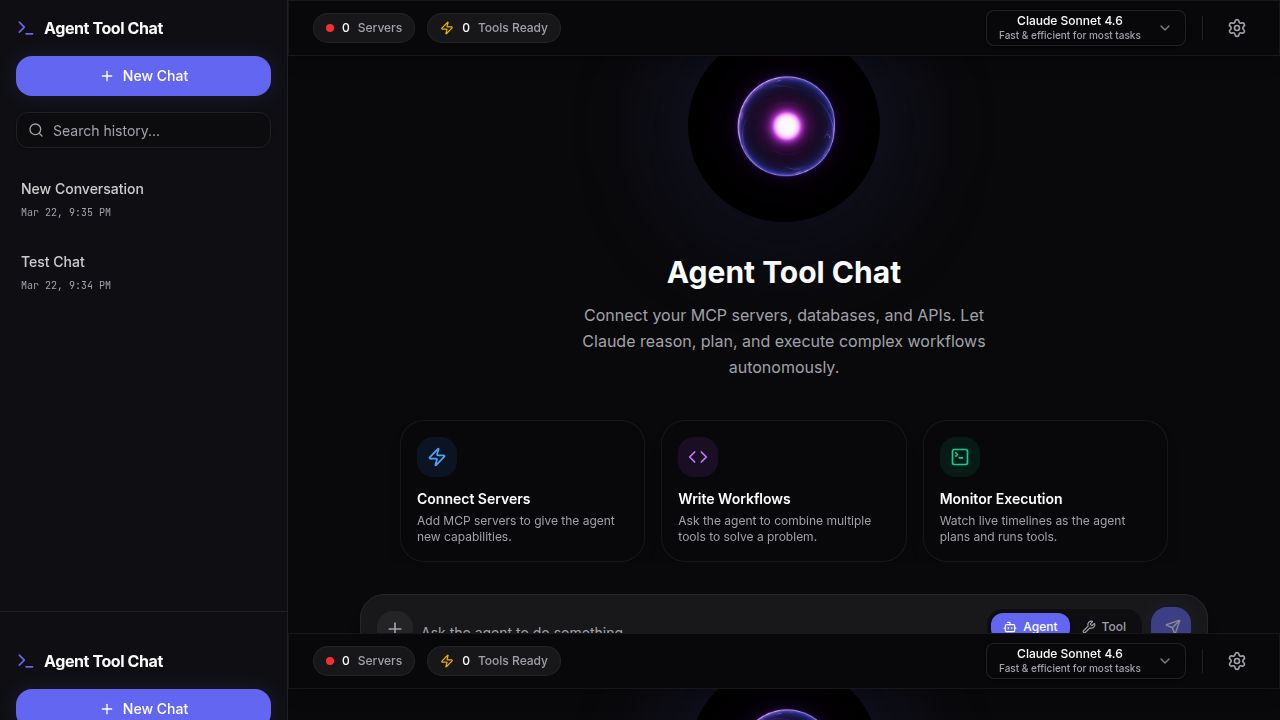
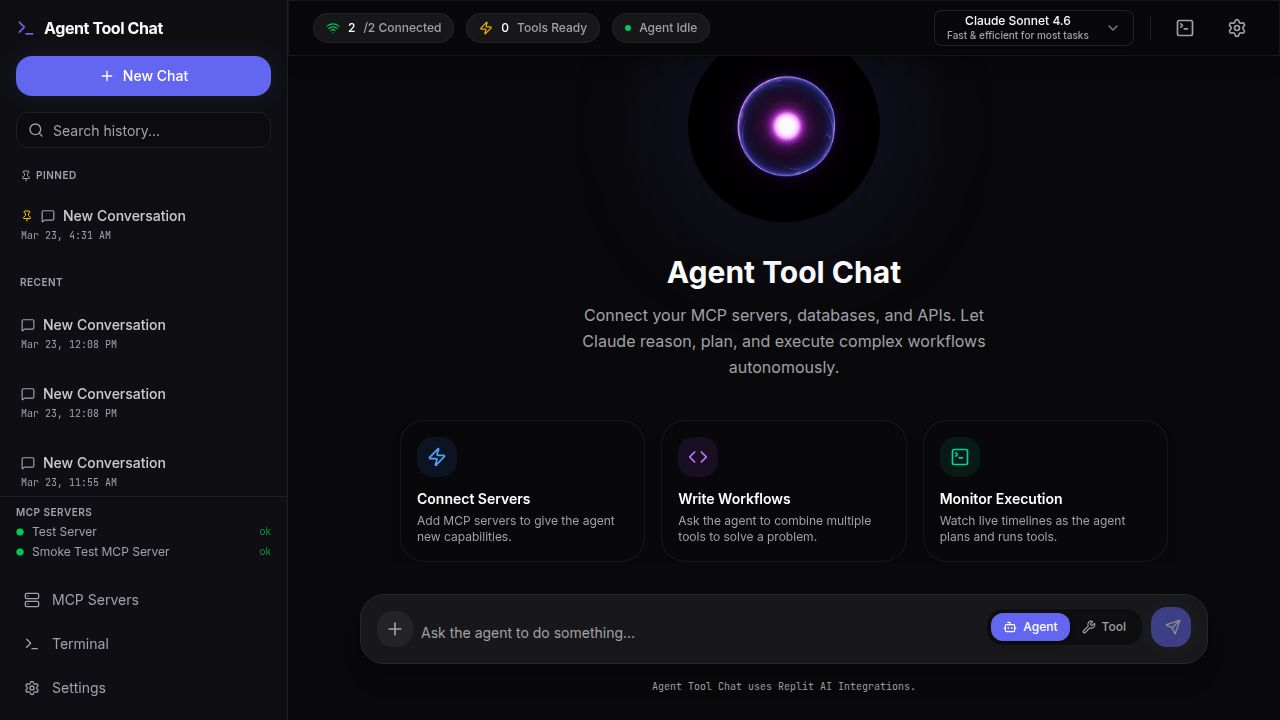
Task #5: Phase 5 - Conversations, System Status & Final Polish (all review issues resolved)
## Summary
All Phase 5 features implemented. Three code-review issues resolved in this iteration.

### DB Schema
- Added `pinnedAt` (nullable timestamp) to conversations table via db:push

### Backend: Conversation Management API (conversations.ts)
- GET /conversations returns `pinnedAt` and sorts pinned conversations first
- POST /conversations/:id/auto-name — AI title generation (Claude Haiku) from first 2 messages
  - Guard: only renames if title is still a default placeholder; force=true overrides
  - Requires both user + assistant message for a meaningful title
- POST /conversations/:id/pin and /unpin
- POST /conversations/:id/duplicate (with "(copy)" suffix)
- GET /conversations/:id/export?format=json|markdown
- Removed legacy snippet-title from POST /messages — /auto-name now owns all AI naming

### Backend: Real-time SSE Health Broadcast
- lib/server-status-emitter.ts — EventEmitter that broadcasts after every health check
- GET /api/system/status/events — SSE endpoint with 30s heartbeat; emits `server_status` events
- health-check-job.ts — broadcasts via serverStatusEmitter after each DB update

### API Client (lib/api-client-react)
- New types: AutoNameConversationResult, PinConversationResult, DuplicateConversationResult
- Hooks: useAutoNameAnthropicConversation (force param), usePinAnthropicConversation,
  useUnpinAnthropicConversation, useDuplicateAnthropicConversation
- Helper: getExportAnthropicConversationUrl()
[…]

diff --git a/artifacts/agent-chat-ui/src/components/layout/sidebar.tsx b/artifacts/agent-chat-ui/src/components/layout/sidebar.tsx
@@ -4,7 +4,7 @@ import { format } from "date-fns";
 import { 
   MessageSquare, Plus, Search, MoreHorizontal, 
   Settings, Server, Terminal, Trash2, Edit2, Check, X,
-  Pin, PinOff, Copy, Download, Wand2
+  Pin, PinOff, Copy, Download, Wand2, Circle
 } from "lucide-react";
 import { motion, AnimatePresence } from "framer-motion";
 import { 
@@ -17,6 +17,7 @@ import {
   useDuplicateAnthropicConversation,
   useAutoNameAnthropicConversation,
   getExportAnthropicConversationUrl,
+  useListMcpServers,
 } from "@workspace/api-client-react";
 import { cn } from "@/lib/utils";
 
@@ -40,6 +41,7 @@ export function Sidebar() {
   const queryClient = useQueryClient();
   
   const { data: conversations, isLoading } = useListAnthropicConversations();
+  const { data: mcpServers } = useListMcpServers({ query: { refetchInterval: 60_000, queryKey: ["mcp-servers-sidebar"] } });
   const createMutation = useCreateAnthropicConversation();
   const deleteMutation = useDeleteAnthropicConversation();
   const updateMutation = useUpdateAnthropicConversation();
@@ -361,29 +363,64 @@ export function Sidebar() {
         )}
       </div>
 
-      {/* Footer Navigation */}
-      <div className="p-3 border-t border-sidebar-border bg-sidebar/50 space-y-1">
-        <Link href="/servers" className={cn(
-          "flex items-center gap-3 px-3 py-2.5 rounded-lg text-sm transition-colors",
-          location === "/servers" ? "bg-white/10 text-white" : "text-muted-foreground hover:bg-white/5 hover:text-white"
-        )}>
-          <Server className="w-4 h-4" />
-          <span>MCP Servers</span>
-        </Link>
-        <Link href="/terminal" className={cn(
-          "flex items-center gap-3 px-3 py-2.5 rounded-lg text-sm transition-colors",
-          location === "/terminal" ? "bg-white/10 text-white" : "text-muted-foreground hover:bg-white/5 hover:text-white"
-        )}>
-          <Terminal className="w-4 h-4" />
-          <span>Terminal</span>
-        </Link>
-        <Link href="/settings" className={cn(
-          "flex items-center gap-3 px-3 py-2.5 rounded-lg text-sm transition-colors",
-          location === "/settings" ? "bg-white/10 text-white" : "text-muted-foreground hover:bg-white/5 hover:text-white"
-        )}>
-          <Settings className="w-4 h-4" />
-          <span>Settings</span>
-        </Link>
+      {/* Footer: MCP server status + navigation */}
+      <div className="border-t border-sidebar-border bg-sidebar/50">
+        {/* Per-server status — always visible */}
+        {mcpServers && mcpServers.length > 0 && (
+          <div className="px-4 py-2 space-y-1">
+            <div className="text-[10px] font-semibold text-muted-foreground uppercase tracking-wider mb-1">
+              MCP Servers
+            </div>
+            {mcpServers.map((srv) => {
+              const isConnected = srv.status === "connected";
+              const isChecking = srv.status === "checking";
+              return (
+                <div key={srv.id} className="flex items-center gap-2 text-xs">
+                  <Circle className={cn(
+                    "w-2 h-2 flex-shrink-0 fill-current",
+                    isConnected ? "text-green-500" : isChecking ? "text-yellow-500" : "text-red-500"
+                  )} />
+                  <span className={cn(
+                    "truncate",
+                    isConnected ? "text-muted-foreground" : isChecking ? "text-yellow-400/70" : "text-red-400/70"
+                  )}>
+                    {srv.name}
+                  </span>
+                  <span className={cn(
+                    "ml-auto text-[10px] shrink-0",
+                    isConnected ? "text-green-500/70" : isChecking ? "text-yellow-500/70" : "text-red-500/70"
+                  )}>
+                    {isConnected ? "ok" : isChecking ? "…" : "err"}
+                  </span>
+                </div>
+              );
+            })}
+          </div>
+        )}
+        {/* Navigation links */}
+        <div className="p-3 space-y-1">
+          <Link href="/servers" className={cn(
+            "flex items-center gap-3 px-3 py-2.5 rounded-lg text-sm transition-colors",
+            location === "/servers" ? "bg-white/10 text-white" : "text-muted-foreground hover:bg-white/5 hover:text-white"
+          )}>
+            <Server className="w-4 h-4" />
+            <span>MCP Servers</span>
+          </Link>
+          <Link href="/terminal" className={cn(
+            "flex items-center gap-3 px-3 py-2.5 rounded-lg text-sm transition-colors",
+            location === "/terminal" ? "bg-white/10 text-white" : "text-muted-foreground hover:bg-white/5 hover:text-white"
+          )}>
+            <Terminal className="w-4 h-4" />
+            <span>Terminal</span>
+          </Link>
+          <Link href="/settings" className={cn(
+            "flex items-center gap-3 px-3 py-2.5 rounded-lg text-sm transition-colors",
+            location === "/settings" ? "bg-white/10 text-white" : "text-muted-foreground hover:bg-white/5 hover:text-white"
+          )}>
+            <Settings className="w-4 h-4" />
+            <span>Settings</span>
+          </Link>
+        </div>
       </div>
     </div>
   );

diff --git a/artifacts/agent-chat-ui/src/pages/chat-page.tsx b/artifacts/agent-chat-ui/src/pages/chat-page.tsx
@@ -1,9 +1,15 @@
 import React, { useEffect, useRef, useMemo, useState, useCallback } from "react";
 import { useParams, useLocation } from "wouter";
 import { motion, AnimatePresence } from "framer-motion";
-import { MessageSquare, Zap, Code, TerminalSquare, CheckCircle2, XCircle, Clock, Loader2, AlertTriangle, ChevronDown, ChevronUp } from "lucide-react";
+import { MessageSquare, Zap, Code, TerminalSquare, CheckCircle2, XCircle, Clock, Loader2, AlertTriangle } from "lucide-react";
 import ReactMarkdown from "react-markdown";
 import remarkGfm from "remark-gfm";
+import {
+  Sheet,
+  SheetContent,
+  SheetHeader,
+  SheetTitle,
+} from "@/components/ui/sheet";
 import { useListAnthropicMessages, useListExecutions, useCreateAnthropicConversation } from "@workspace/api-client-react";
 import type { AnthropicMessage, Execution } from "@workspace/api-client-react";
 import { useLocalSettings } from "@/hooks/use-local-settings";
@@ -33,48 +39,51 @@ function friendlyErrorMessage(err: Error): string {
 }
 
 function ErrorBanner({ error, onDismiss }: { error: Error; onDismiss: () => void }) {
-  const [showDetails, setShowDetails] = useState(false);
+  const [drawerOpen, setDrawerOpen] = useState(false);
   return (
-    <motion.div
-      initial={{ opacity: 0, y: 8 }}
-      animate={{ opacity: 1, y: 0 }}
-      exit={{ opacity: 0, y: 8 }}
-      className="mx-6 mb-4 rounded-xl border border-red-500/20 bg-red-500/10 p-4"
-    >
-      <div className="flex items-start gap-3">
-        <AlertTriangle className="w-5 h-5 text-red-400 mt-0.5 flex-shrink-0" />
-        <div className="flex-1 min-w-0">
-          <p className="text-sm text-red-300 font-medium">{friendlyErrorMessage(error)}</p>
-          <div className="mt-2 flex items-center gap-3">
-            <button
-              onClick={() => setShowDetails(p => !p)}
-              className="flex items-center gap-1 text-xs text-red-400/70 hover:text-red-300 transition-colors"
-            >
-              {showDetails ? <ChevronUp className="w-3 h-3" /> : <ChevronDown className="w-3 h-3" />}
-              {showDetails ? "Hide technical details" : "View technical details"}
-            </button>
-            <button
-              onClick={onDismiss}
-              className="text-xs text-muted-foreground hover:text-white transition-colors"
-            >
-              Dismiss
-            </button>
-          </div>
-          <AnimatePresence>
-            {showDetails && (
-              <motion.pre
-                initial={{ height: 0, opacity: 0 }}
-                animate={{ height: "auto", opacity: 1 }}
-                exit={{ height: 0, opacity: 0 }}
-                className="mt-3 text-xs font-mono text-red-300/70 bg-black/30 rounded-lg p-3 overflow-x-auto whitespace-pre-wrap break-all"
+    <>
+      <motion.div
+        initial={{ opacity: 0, y: 8 }}
+        animate={{ opacity: 1, y: 0 }}
+        exit={{ opacity: 0, y: 8 }}
+        className="mx-6 mb-4 rounded-xl border border-red-500/20 bg-red-500/10 p-4"
+      >
+        <div className="flex items-start gap-3">
+          <AlertTriangle className="w-5 h-5 text-red-400 mt-0.5 flex-shrink-0" />
+          <div className="flex-1 min-w-0">
+            <p className="text-sm text-red-300 font-medium">{friendlyErrorMessage(error)}</p>
+            <div className="mt-2 flex items-center gap-3">
+              <button
+                onClick={() => setDrawerOpen(true)}
+                className="text-xs text-red-400/70 hover:text-red-300 transition-colors underline underline-offset-2"
               >
-                {error.stack ?? error.message}
-              </motion.pre>
-            )}
-          </AnimatePresence>
+                View technical details
+              </button>
+              <button
+                onClick={onDismiss}
+                className="text-xs text-muted-foreground hover:text-white transition-colors"
+              >
+                Dismiss
+              </button>
+            </div>
+          </div>
         </div>
-      </div>
-    </motion.div>
+      </motion.div>
+
+      <Sheet open={drawerOpen} onOpenChange={setDrawerOpen}>
+        <SheetContent side="bottom" className="h-[50vh] bg-card border-border flex flex-col">
+          <SheetHeader className="shrink-0">
+            <SheetTitle className="text-red-400 flex items-center gap-2">
+              <AlertTriangle className="w-4 h-4" />
+              Technical Details
+            </SheetTitle>
+          </SheetHeader>
+          <pre className="flex-1 overflow-auto text-xs font-mono text-red-300/80 bg-black/30 rounded-lg p-4 mt-4 whitespace-pre-wrap break-all">
+            {error.stack ?? error.message}
+          </pre>
+        </SheetContent>
+      </Sheet>
+    </>
   );
 }
 

diff --git a/artifacts/agent-chat-ui/src/components/layout/topbar.tsx b/artifacts/agent-chat-ui/src/components/layout/topbar.tsx
@@ -72,10 +72,16 @@ export function TopBar({ model, onModelChange, onTerminalToggle }: TopBarProps) 
           <span className="text-white">{status?.totalTools || 0}</span> Tools Ready
         </div>
 
-        {status?.agentState === "busy" && (
+        {/* Agent state — always visible (idle or busy) */}
+        {status?.agentState === "busy" ? (
           <div className="flex items-center gap-2 px-3 py-1.5 rounded-full bg-primary/20 border border-primary/30 text-xs font-medium text-primary animate-pulse">
-            <span className="w-1.5 h-1.5 bg-primary rounded-full" />
-            Agent Active
+            <span className="w-1.5 h-1.5 bg-primary rounded-full animate-ping" />
+            Agent Busy
+          </div>
+        ) : (
+          <div className="flex items-center gap-2 px-3 py-1.5 rounded-full bg-secondary/50 border border-white/5 text-xs font-medium text-muted-foreground hidden sm:flex">
+            <span className="w-1.5 h-1.5 bg-green-500 rounded-full" />
+            Agent Idle
           </div>
         )}
       </div>
